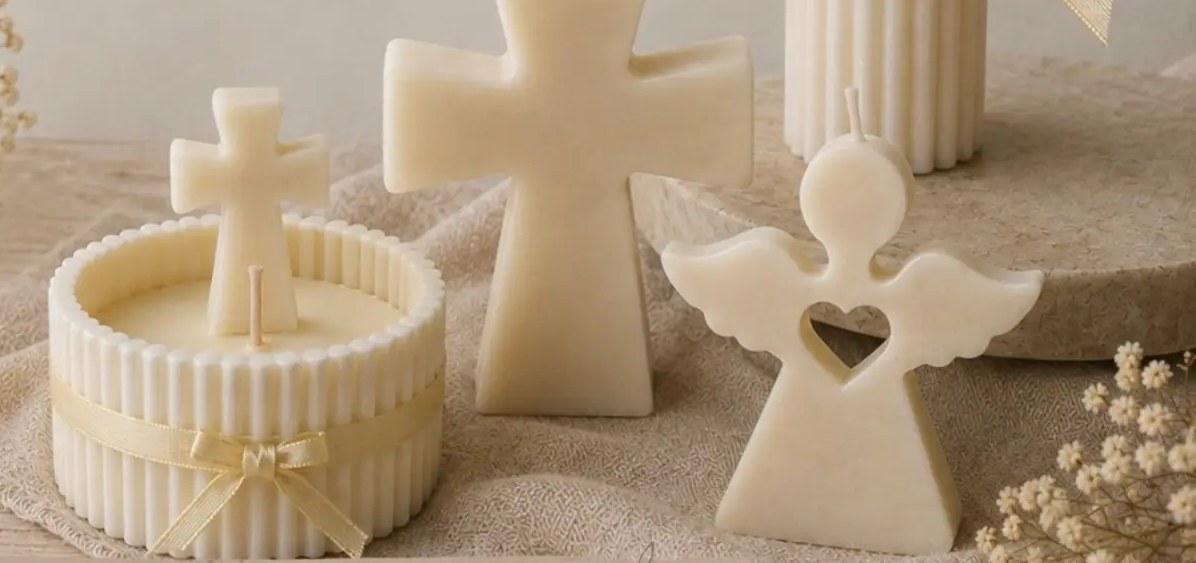
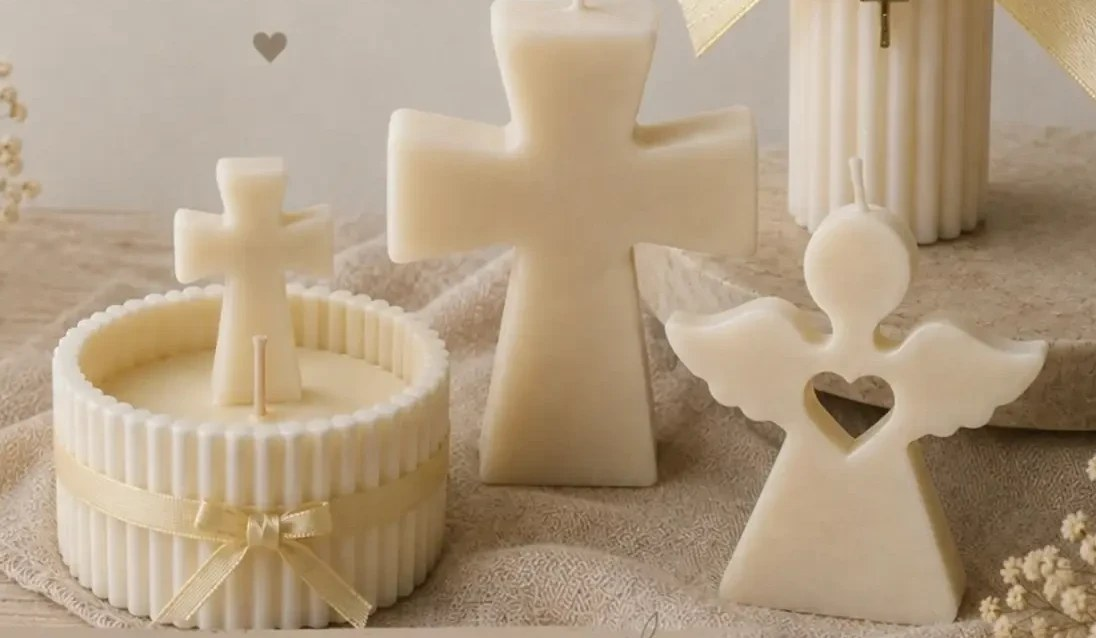
feat: intro animada 'UBUNTU / recuerdos que permanecen' y sacar la línea de envíos
Nico pidió un video corto en bucle con 'UBUNTU' y abajo 'RECUERDOS QUE
PERMANECEN', y que el hero anterior quede debajo. Se hace con CSS en vez de
un archivo de video: mismo efecto, nítido a cualquier tamaño y sin peso. Las
letras entran desenfocadas una por una, después la línea y el lema; en bucle
queda solo la luz cálida que respira detrás. El texto no se va y vuelve, así
nadie entra a una pantalla vacía.

Con la intro arriba, el botón flotante de WhatsApp aparecía desde el primer
segundo: miraba al hero, que ahora arranca fuera de pantalla. Pasa a mirar la
intro.

La imagen del hero es el encuadre que mandó Nico (409x238, captura). Se ubicó
por comparación de píxeles dentro de la placa original y se recortó de ahí:
1096x638, casi tres veces más resolución.

'Envíos a todo el país' no es cierto: sale la franja, su CSS y también la
frase de la meta description que usan Google y WhatsApp al compartir el link.

Claude-Session: https://claude.ai/code/session_01QJxsSfd4GNLEZE9AUHzyY2

diff --git a/css/estilos.css b/css/estilos.css
@@ -114,6 +114,105 @@ img { display: block; max-width: 100%; }
 .icono-link:hover { background: var(--salvia-suave); color: var(--tinta); }
 .icono-link svg { width: 21px; height: 21px; }
 
+/* ---------- Intro ---------- */
+
+.solo-lectores {
+  position: absolute; width: 1px; height: 1px;
+  overflow: hidden; clip-path: inset(50%); white-space: nowrap;
+}
+
+.intro {
+  position: relative;
+  display: grid;
+  place-items: center;
+  min-height: min(calc(100svh - 64px), 820px);   /* la primera pantalla entera, menos el encabezado */
+  padding: var(--e12) var(--e4);
+  overflow: hidden;
+  text-align: center;
+}
+.intro__contenido { position: relative; }
+
+/* Luz cálida detrás del texto, que respira como la llama de una vela. */
+.intro__luz {
+  position: absolute;
+  width: min(90vw, 760px);
+  aspect-ratio: 1;
+  border-radius: 50%;
+  background: radial-gradient(circle, rgb(236 218 186 / 0.75) 0%, rgb(236 218 186 / 0.25) 38%, transparent 68%);
+  animation: luz-entra 2.4s ease-out both, respirar 7s ease-in-out 2.4s infinite;
+}
+@keyframes luz-entra { from { opacity: 0; transform: scale(0.85); } }
+@keyframes respirar {
+  0%, 100% { opacity: 1;    transform: scale(1); }
+  30%      { opacity: 0.8;  transform: scale(0.97); }
+  55%      { opacity: 0.95; transform: scale(1.03); }
+  70%      { opacity: 0.75; transform: scale(0.99); }
+}
+
+.intro__marca {
+  margin: 0;
+  font-family: var(--display);
+  font-weight: 400;
+  font-size: clamp(3.25rem, 15vw, 8rem);
+  line-height: 1;
+  letter-spacing: 0.2em;
+  margin-right: -0.2em;         /* el tracking deja aire después de la última letra */
+  color: var(--taupe);          /* texto grande: 4.27:1 alcanza (mínimo 3:1) */
+}
+/* Cada letra aparece desenfocada y se asienta, una detrás de otra. */
+.intro__letras span {
+  display: inline-block;
+  animation: letra 1.4s cubic-bezier(.2, .7, .2, 1) both;
+}
+.intro__letras span:nth-child(1) { animation-delay: 0.20s; }
+.intro__letras span:nth-child(2) { animation-delay: 0.34s; }
+.intro__letras span:nth-child(3) { animation-delay: 0.48s; }
+.intro__letras span:nth-child(4) { animation-delay: 0.62s; }
+.intro__letras span:nth-child(5) { animation-delay: 0.76s; }
+.intro__letras span:nth-child(6) { animation-delay: 0.90s; }
+@keyframes letra {
+  from { opacity: 0; transform: translateY(0.12em); filter: blur(8px); }
+}
+
+.intro__linea {
+  display: block;
+  width: 72px;
+  height: 1px;
+  margin: var(--e6) auto;
+  background: var(--taupe);
+  transform-origin: center;
+  animation: linea 1s ease 1.6s both;
+}
+@keyframes linea { from { transform: scaleX(0); } }
+
+.intro__lema {
+  margin: 0;
+  font-size: clamp(0.75rem, 2.6vw, 0.9375rem);
+  font-weight: 500;
+  letter-spacing: 0.32em;
+  text-transform: uppercase;
+  color: var(--tinta-suave);
+  animation: aparece 1.2s ease 2.1s both;
+}
+@keyframes aparece { from { opacity: 0; transform: translateY(6px); } }
+
+.intro__bajar {
+  position: absolute;
+  bottom: var(--e6);
+  left: 50%;
+  translate: -50% 0;
+  display: grid; place-items: center;
+  width: 44px; height: 44px;
+  color: var(--tinta-suave);
+  animation: aparece 1s ease 3s both, flotar 2.4s ease-in-out 4s infinite;
+}
+.intro__bajar svg { width: 26px; height: 26px; }
+@keyframes flotar { 50% { transform: translateY(6px); } }
+
+@media (prefers-reduced-motion: reduce) {
+  .intro__luz, .intro__letras span, .intro__linea, .intro__lema, .intro__bajar { animation: none; }
+}
+
 /* ---------- Hero ---------- */
 
 /* Dos secciones seguidas no suman sus aires: la de abajo se apoya en la de
@@ -131,7 +230,7 @@ img { display: block; max-width: 100%; }
 .hero__imagen img {
   width: 100%;
   height: auto;
-  aspect-ratio: 1196 / 563;
+  aspect-ratio: 1096 / 638;
   object-fit: cover;
   animation: acercar 24s ease-in-out infinite alternate;
 }
@@ -175,19 +274,6 @@ img { display: block; max-width: 100%; }
   .hero h1, .hero__bajada { margin-inline: 0; }
   .hero__acciones { justify-content: flex-start; }
   .hero__imagen { margin: 0; }
-  .hero__imagen img { aspect-ratio: 4 / 3; }
-}
-
-/* ---------- Franja ---------- */
-
-.franja {
-  margin: 0;                  /* es un <p>: sin esto arrastra el margen del navegador */
-  background: var(--salvia);
-  color: var(--tinta);
-  text-align: center;
-  padding: var(--e3) var(--e4);
-  font-size: 0.875rem;
-  letter-spacing: 0.02em;
 }
 
 /* ---------- Catálogo ---------- */

diff --git a/index.html b/index.html
@@ -4,7 +4,7 @@
 <meta charset="utf-8">
 <meta name="viewport" content="width=device-width, initial-scale=1">
 <title>Ubuntu estudio — Velas, souvenirs y deco artesanal</title>
-<meta name="description" content="Hecho a mano, pensado para vos. Velas, souvenirs y objetos de deco artesanales. Morón, Buenos Aires. Envíos a todo el país.">
+<meta name="description" content="Hecho a mano, pensado para vos. Velas, souvenirs y objetos de deco artesanales. Morón, Buenos Aires.">
 
 <meta property="og:type" content="website">
 <meta property="og:title" content="Ubuntu estudio">
@@ -42,6 +42,23 @@
 </header>
 
 <main>
+  <!-- Portada animada: se ve como un video en loop, pero es texto con CSS.
+       Nítido a cualquier tamaño, no pesa nada y el texto se edita acá. -->
+  <section class="intro" data-tono="crema" aria-label="Ubuntu estudio">
+    <div class="intro__luz" aria-hidden="true"></div>
+    <div class="intro__contenido">
+      <p class="intro__marca">
+        <span class="solo-lectores">Ubuntu</span>
+        <span class="intro__letras" aria-hidden="true"><span>U</span><span>B</span><span>U</span><span>N</span><span>T</span><span>U</span></span>
+      </p>
+      <span class="intro__linea" aria-hidden="true"></span>
+      <p class="intro__lema">Recuerdos que permanecen</p>
+    </div>
+    <a class="intro__bajar" href="#hero" aria-label="Ver más">
+      <svg viewBox="0 0 24 24" fill="none" stroke="currentColor" stroke-width="1.5" aria-hidden="true"><path d="M6 9l6 6 6-6"/></svg>
+    </a>
+  </section>
+
   <section class="seccion hero contenedor" id="hero" data-tono="crema">
     <div class="hero__texto">
       <img class="hero__logo" src="assets/marca/isotipo.png" alt="" width="132">
@@ -53,11 +70,9 @@
       </div>
     </div>
     <figure class="hero__imagen">
-      <img src="assets/hero.jpg" alt="Velas de comunión: cuenco, cruz y ángel sobre lino" width="1196" height="563" fetchpriority="high">
+      <img src="assets/hero.jpg" alt="Velas de comunión: cuenco, cruz y ángel sobre lino" width="1096" height="638">
     </figure>
   </section>
-
-  <p class="franja">Envíos a todo el país · Morón, Buenos Aires</p>
 
   <section class="seccion categorias contenedor" id="categorias" data-tono="arena" hidden>
     <h2 class="titulo-seccion">Categorías</h2>

diff --git a/js/ui.js b/js/ui.js
@@ -135,14 +135,14 @@ async function iniciar() {
   }
 }
 
-// El flotante entra recién cuando el hero salió de pantalla.
+// El flotante entra recién cuando la primera pantalla (la intro) salió de vista.
 function botonFlotante() {
   const flotante = document.querySelector('#flotante');
-  const hero = document.querySelector('#hero');
+  const portada = document.querySelector('.intro');
   new IntersectionObserver(
     ([entrada]) => flotante.setAttribute('data-visible', String(!entrada.isIntersecting)),
     { rootMargin: '-120px 0px 0px 0px' }
-  ).observe(hero);
+  ).observe(portada);
 }
 
 function bordeEncabezado() {

diff --git a/docs/plan/06-v2.md b/docs/plan/06-v2.md
@@ -38,6 +38,29 @@ Dos caminos combinables:
 Límite: la IA cambia el **fondo**, nunca el **producto**. Si la vela de la
 foto no es la que llega, es un reclamo. Revisar cada foto contra el original.
 
+## Intro animada
+
+Primera pantalla nueva, antes del hero: "UBUNTU" y debajo "RECUERDOS QUE
+PERMANECEN", sobre una luz cálida que respira como una vela. Pedido de Nico:
+un video corto en bucle que diga eso.
+
+Está hecha con CSS, no con un archivo de video: se ve igual, pero es nítida a
+cualquier tamaño, no pesa nada y el texto se cambia en `index.html`.
+
+- Las letras entran una por una, desenfocadas, y se asientan (0,2–2,3 s);
+  después la línea y el lema.
+- El texto **no se va y vuelve**: queda fijo y lo que sigue en bucle es la luz.
+  Si el texto desapareciera en el loop, alguien que entra en ese momento
+  vería una pantalla vacía.
+- Ocupa la primera pantalla (menos el encabezado), con una flecha que invita
+  a bajar. El botón flotante de WhatsApp aparece recién cuando la intro sale
+  de vista.
+- "UBUNTU" va en `--taupe`: 4.27:1 alcanza porque es texto grande (mínimo 3:1).
+- Con "reducir movimiento", todo aparece quieto.
+
+La imagen del hero pasó a ser el encuadre que eligió Nico, sacado de la placa
+original en alta resolución (1096×638).
+
 ## 3. Escritorio
 
 El problema no era sobra de espacio sino falta de contenido visual que lo
@@ -47,7 +70,7 @@ ocupe.
   derecha (4:3). En celular sigue apilado, con la imagen debajo de los
   botones. El isotipo del hero se oculta en escritorio porque ya está en el
   encabezado.
-- **Imagen del hero provisoria**: `assets/hero.jpg`, recortada de la placa de
+- **Imagen del hero**: `assets/hero.jpg`, recortada de la placa de
   Comunión (la única foto con luz de día y fondo de lino), dejando solo los
   productos, sin texto ni logo. Se reemplaza por el video (fase 5) o por una
   foto nueva.

diff --git a/docs/plan/02-contenido.md b/docs/plan/02-contenido.md
@@ -24,7 +24,6 @@ estamos hablando.
 |---|---|---|
 | 1 | Encabezado | Logo + acceso a WhatsApp e Instagram, siempre visible |
 | 2 | Hero | El lema, qué hacen, y los dos botones |
-| 3 | Franja | Envíos a todo el país · Morón, Buenos Aires |
 | 4 | Catálogo | El contenido real. Es el 80% de la página |
 | 5 | Sobre nosotros | Corto. La confianza de comprarle a una familia |
 | 6 | Contanos tu idea | Cierre: el CTA de personalizados |
@@ -54,11 +53,10 @@ contexto tiene que entender el rubro en dos segundos.
 
 ### 3.2 Franja bajo el hero
 
-> Envíos a todo el país · Morón, Buenos Aires
-
-Una línea, fondo salvia, sin botón. "Envíos a todo el país" es de las cosas
-que más desbloquean una compra y no cuesta nada decirla temprano. Sin
-precios de envío, como pidieron.
+**Eliminada.** Decía "Envíos a todo el país · Morón, Buenos Aires", y no hacen
+envíos a todo el país. Tampoco figura en la descripción del sitio (la que
+muestran Google y WhatsApp al compartir el link). No volver a agregar nada de
+envíos hasta que ellos lo confirmen.
 
 ### 3.3 Encima del catálogo
 

diff --git a/docs/plan/04-diseno.md b/docs/plan/04-diseno.md
@@ -71,7 +71,7 @@ Reglas:
   "para que resalte" rompe el tono del logo.
 - El verde de WhatsApp es la única excepción, porque es un color que la gente
   reconoce sin leer.
-- El salvia se usa en **superficies grandes**: la franja de envíos, el bloque
+- El salvia se usa en **superficies grandes**: el bloque
   de "contanos tu idea", el chip de categoría activo. Nunca en tipografía.
 - Modo oscuro: **no va en el v1.** Duplica el trabajo de tokens y las fotos de
   producto sobre fondo oscuro se ven peor.
@@ -109,7 +109,7 @@ breakpoints.
 | Sección (h2) | 1.125rem → 1.375rem | Cormorant, mayúsculas, tracking 0.18em | 500 | 1.2 |
 | Producto (h3) | 1rem | Inter | 500 | 1.3 |
 | Cuerpo | 1rem | Inter | 400 | 1.6 |
-| Chico (pie, franja) | 0.875rem | Inter | 400 | 1.5 |
+| Chico (pie) | 0.875rem | Inter | 400 | 1.5 |
 
 - Nunca texto de cuerpo por debajo de 16px en móvil: iOS hace zoom solo.
 - Ancho de línea máximo **65 caracteres** en párrafos.

diff --git a/docs/plan/README.md b/docs/plan/README.md
@@ -25,7 +25,7 @@ carrito, sin backend.
 | Lema | Hecho a mano, pensado para vos |
 | WhatsApp | 11 7238-8119 (`5491172388119`) |
 | Instagram | `@Ubuntu.estudio` |
-| Zona | Morón, Buenos Aires · envíos a todo el país |
+| Zona | Morón, Buenos Aires |
 | Logo | `assets/marca/logo.webp` |
 | Drive | `1WCDLU_cJfaxKQIlLdzfhsQec2gwo1j-Q` |
 
